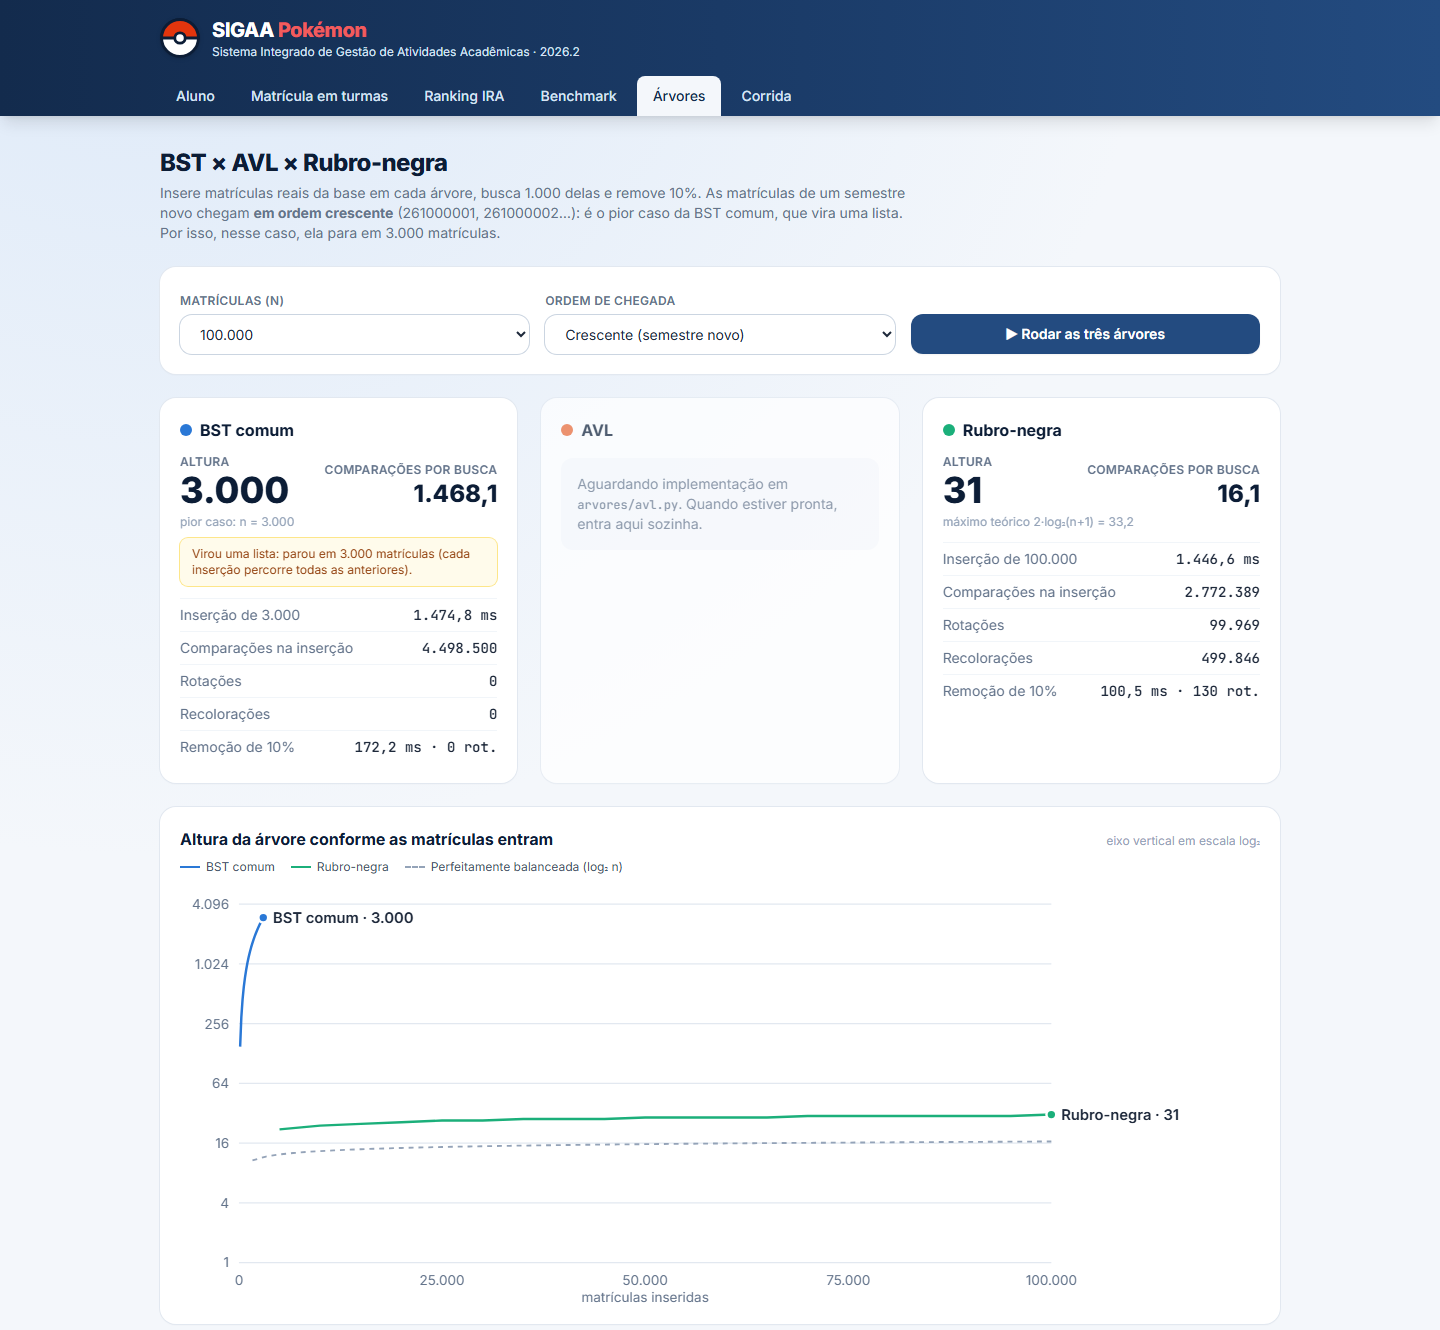
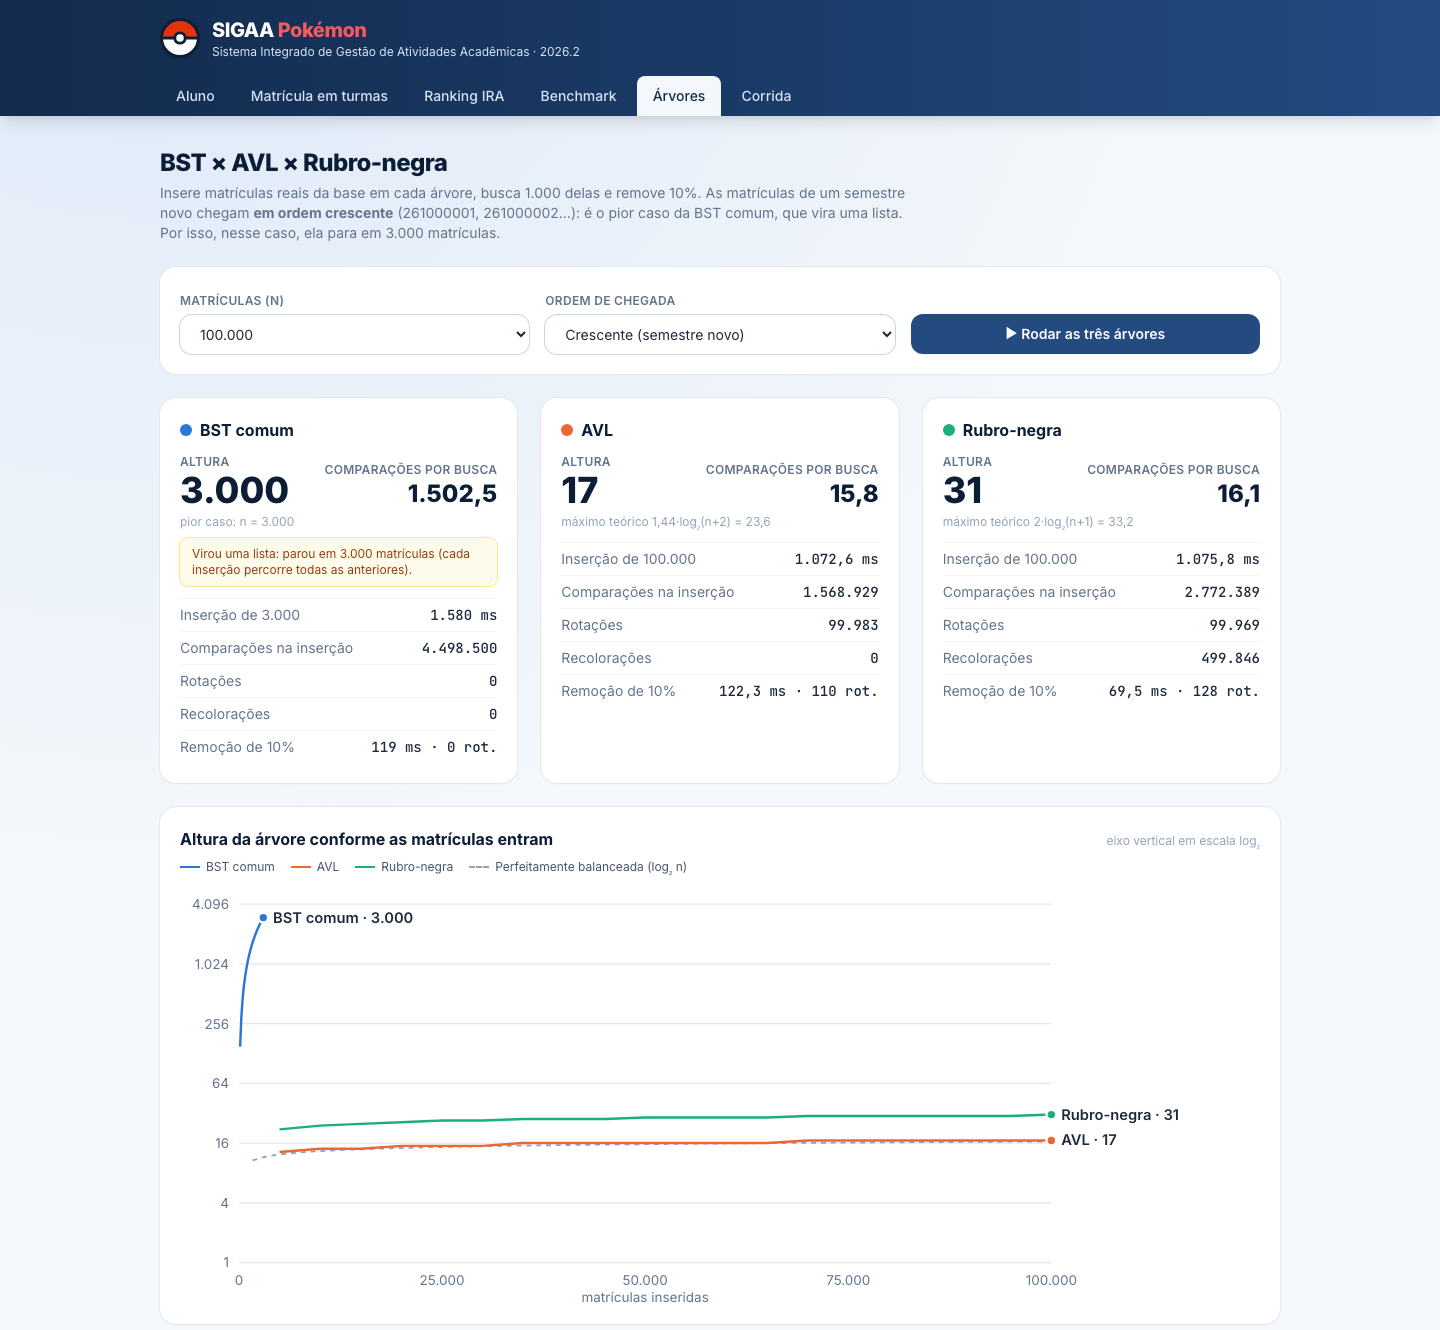
README com a AVL, o benchmark das três árvores e o vídeo
Seção explicando a AVL, linha dela na tabela, tabela nova com a ordem aleatória, print novo da aba Árvores e link da apresentação no YouTube. Os tempos das três árvores foram medidos na mesma máquina.

diff --git a/README.md b/README.md
@@ -69,6 +69,20 @@ Todas ficam em [`arvores/`](arvores) e compartilham a mesma interface ([`base.py
 
 Toda rotação também atualiza o `tamanho` dos dois nós que giram.
 
+### AVL
+
+Cada nó guarda a sua **altura**, e a regra é que, em todo nó, as alturas das subárvores esquerda e direita diferem no máximo em 1: o **fator de balanceamento** `altura(esq) − altura(dir)` fica entre −1 e 1. Com isso a altura fica no máximo em ~1,44·log₂ n, mais baixa que o limite da rubro-negra (2·log₂ n).
+
+Inserção e remoção descem recursivamente até o lugar certo e, na volta, recalculam a altura e o `tamanho` de cada nó do caminho. Se algum fator chega a ±2, uma ou duas rotações consertam, conforme o lado que pesou:
+1. **LL**, pesou à esquerda do filho esquerdo: rotação à direita no nó.
+2. **RR**, o espelho: rotação à esquerda no nó.
+3. **LR**, pesou à direita do filho esquerdo: rotação à esquerda no filho, depois à direita no nó.
+4. **RL**, o espelho: rotação à direita no filho, depois à esquerda no nó.
+
+**Inserção:** uma correção basta, porque a rotação devolve a subárvore à altura que ela tinha antes. E quando uma subárvore termina com a mesma altura (com ou sem rotação), nada acima dela pode ter desbalanceado: dali para cima só o `tamanho` aumenta, sem recalcular nem girar nada.
+
+**Remoção:** com dois filhos, o sucessor (menor da direita) toma o lugar do nó removido. A rotação pode baixar a altura da subárvore e desbalancear um ancestral, então pode haver uma correção em cada nível até a raiz.
+
 ### Benchmark: por que balancear?
 
 As matrículas de um semestre novo são sequenciais (`261000001`, `261000002`, ...). Numa BST comum, cada uma entra à direita da anterior e a árvore vira uma lista, com altura n. A aba **Árvores** insere matrículas reais da base nas três árvores, busca 1.000 delas, remove 10% e desenha a altura ao longo das inserções ([`benchmark_arvores.py`](benchmark_arvores.py)).
@@ -77,11 +91,25 @@ Resultado com 100.000 matrículas em ordem crescente:
 
 | Árvore | Matrículas | Altura | Comparações por busca | Inserção | Rotações | Recolorações |
 |---|---|---|---|---|---|---|
-| BST comum | 3.000 (parou: virou lista) | **3.000** | ~1.470 | ~1,5 s | 0 | 0 |
-| Rubro-negra | 100.000 | **31** (máx. 33,2) | 16,1 | ~1,4 s | 99.969 | 499.846 |
-| AVL | _(em implementação)_ | | | | | |
+| BST comum | 3.000 (parou: virou lista) | **3.000** | ~1.500 | ~1,25 s | 0 | 0 |
+| AVL | 100.000 | **17** (máx. 23,6) | 15,8 | ~0,9 s | 99.983 | — |
+| Rubro-negra | 100.000 | **31** (máx. 33,2) | 16,1 | ~1,0 s | 99.969 | 499.846 |
 
-A BST levou o mesmo tempo para inserir **3 mil** matrículas que a rubro-negra para inserir **100 mil**, e cada busca nela custa ~90 vezes mais. A rubro-negra paga o balanceamento com rotações e recolorações, mas a altura fica em O(log n).
+A BST levou mais tempo para inserir **3 mil** matrículas do que as árvores balanceadas para inserir **100 mil**, e cada busca nela custa ~90 vezes mais. As balanceadas pagam com rotações (e, na rubro-negra, recolorações), mas a altura fica em O(log n).
+
+A AVL fica com altura **17**, praticamente a mínima possível (log₂ 100.000 ≈ 16,6), enquanto a rubro-negra chega a 31. Por isso, com chaves crescentes, ela faz bem menos comparações para inserir (1,57 milhão contra 2,77 milhões) e termina antes.
+
+Com as mesmas 100.000 matrículas em ordem aleatória:
+
+| Árvore | Altura | Comparações por busca | Inserção | Rotações | Recolorações |
+|---|---|---|---|---|---|
+| BST comum | ~40 | ~20,5 | ~0,75 s | 0 | 0 |
+| AVL | **20** (máx. 23,6) | 16,0 | ~0,95 s | ~70 mil | — |
+| Rubro-negra | **20** (máx. 33,2) | 16,0 | ~0,7 s | ~58 mil | ~232 mil |
+
+Aqui a BST não degenera (altura ~40, o dobro das outras), e as duas balanceadas empatam na altura e nas buscas. A rubro-negra insere mais rápido: gira menos e é iterativa, enquanto a AVL é recursiva, e em Python cada chamada de função pesa. É a troca clássica: a AVL é mais rígida no balanceamento (busca um pouco melhor no pior caso), e a rubro-negra mexe menos na árvore a cada mudança.
+
+Os tempos foram medidos na mesma máquina e variam um pouco de uma execução para outra.
 
 ![Benchmark das árvores](assets/arvores-benchmark.png)
 
@@ -125,4 +153,4 @@ tests/          testes das árvores e da fila
 
 ## Vídeo
 
-_(link do vídeo)_
+[Apresentação do trabalho 3 no YouTube](https://youtu.be/y28rO-B_7yA): o João mostra a fila de espera com a rubro-negra, e a Ana mostra a AVL e o benchmark das três árvores.
